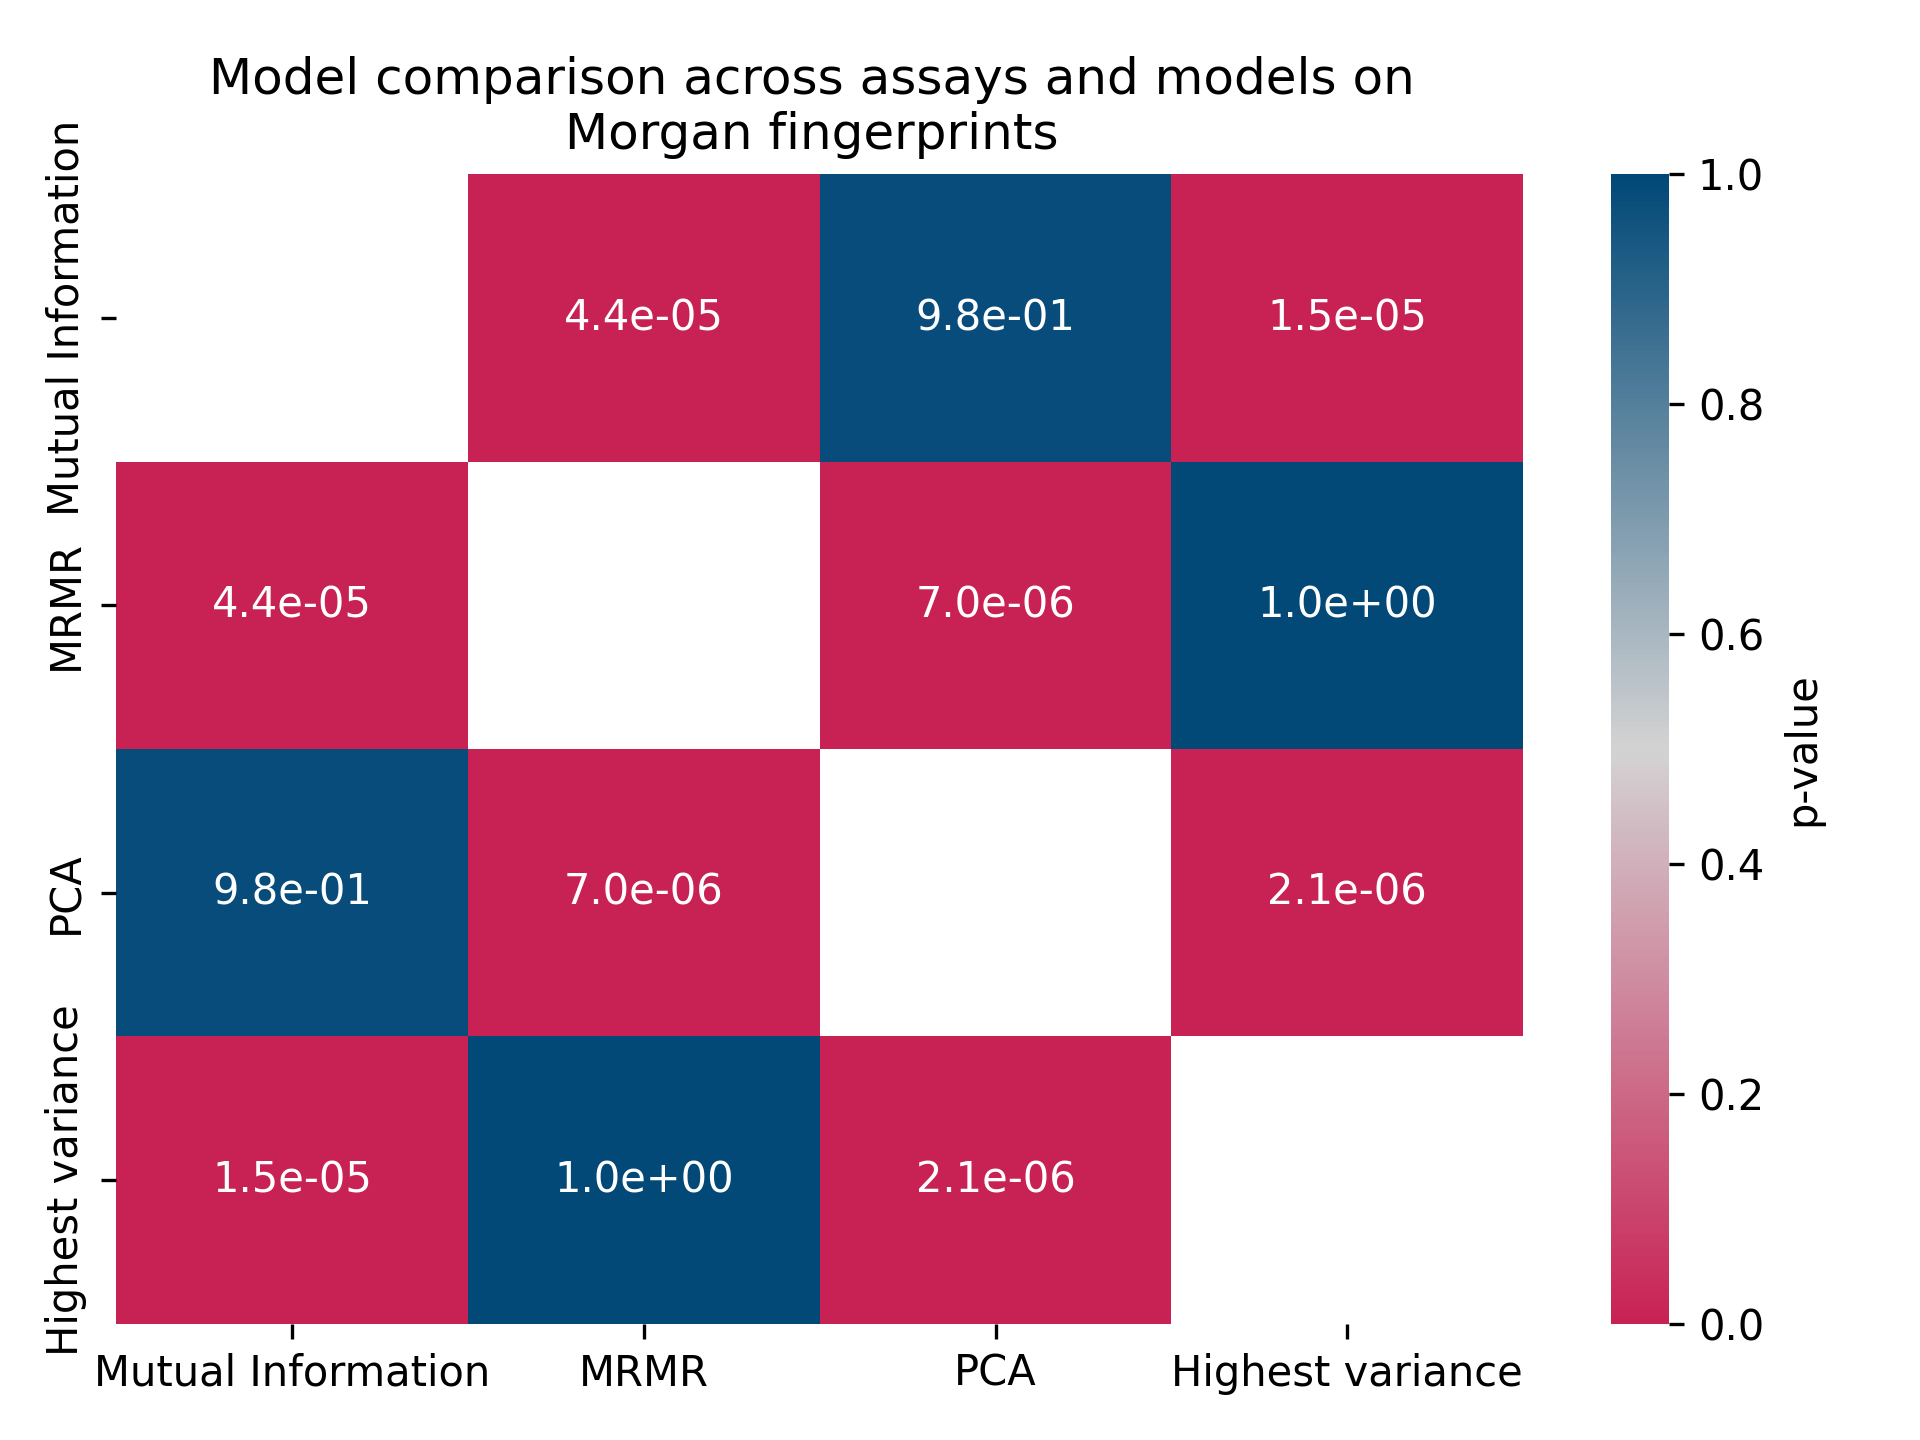
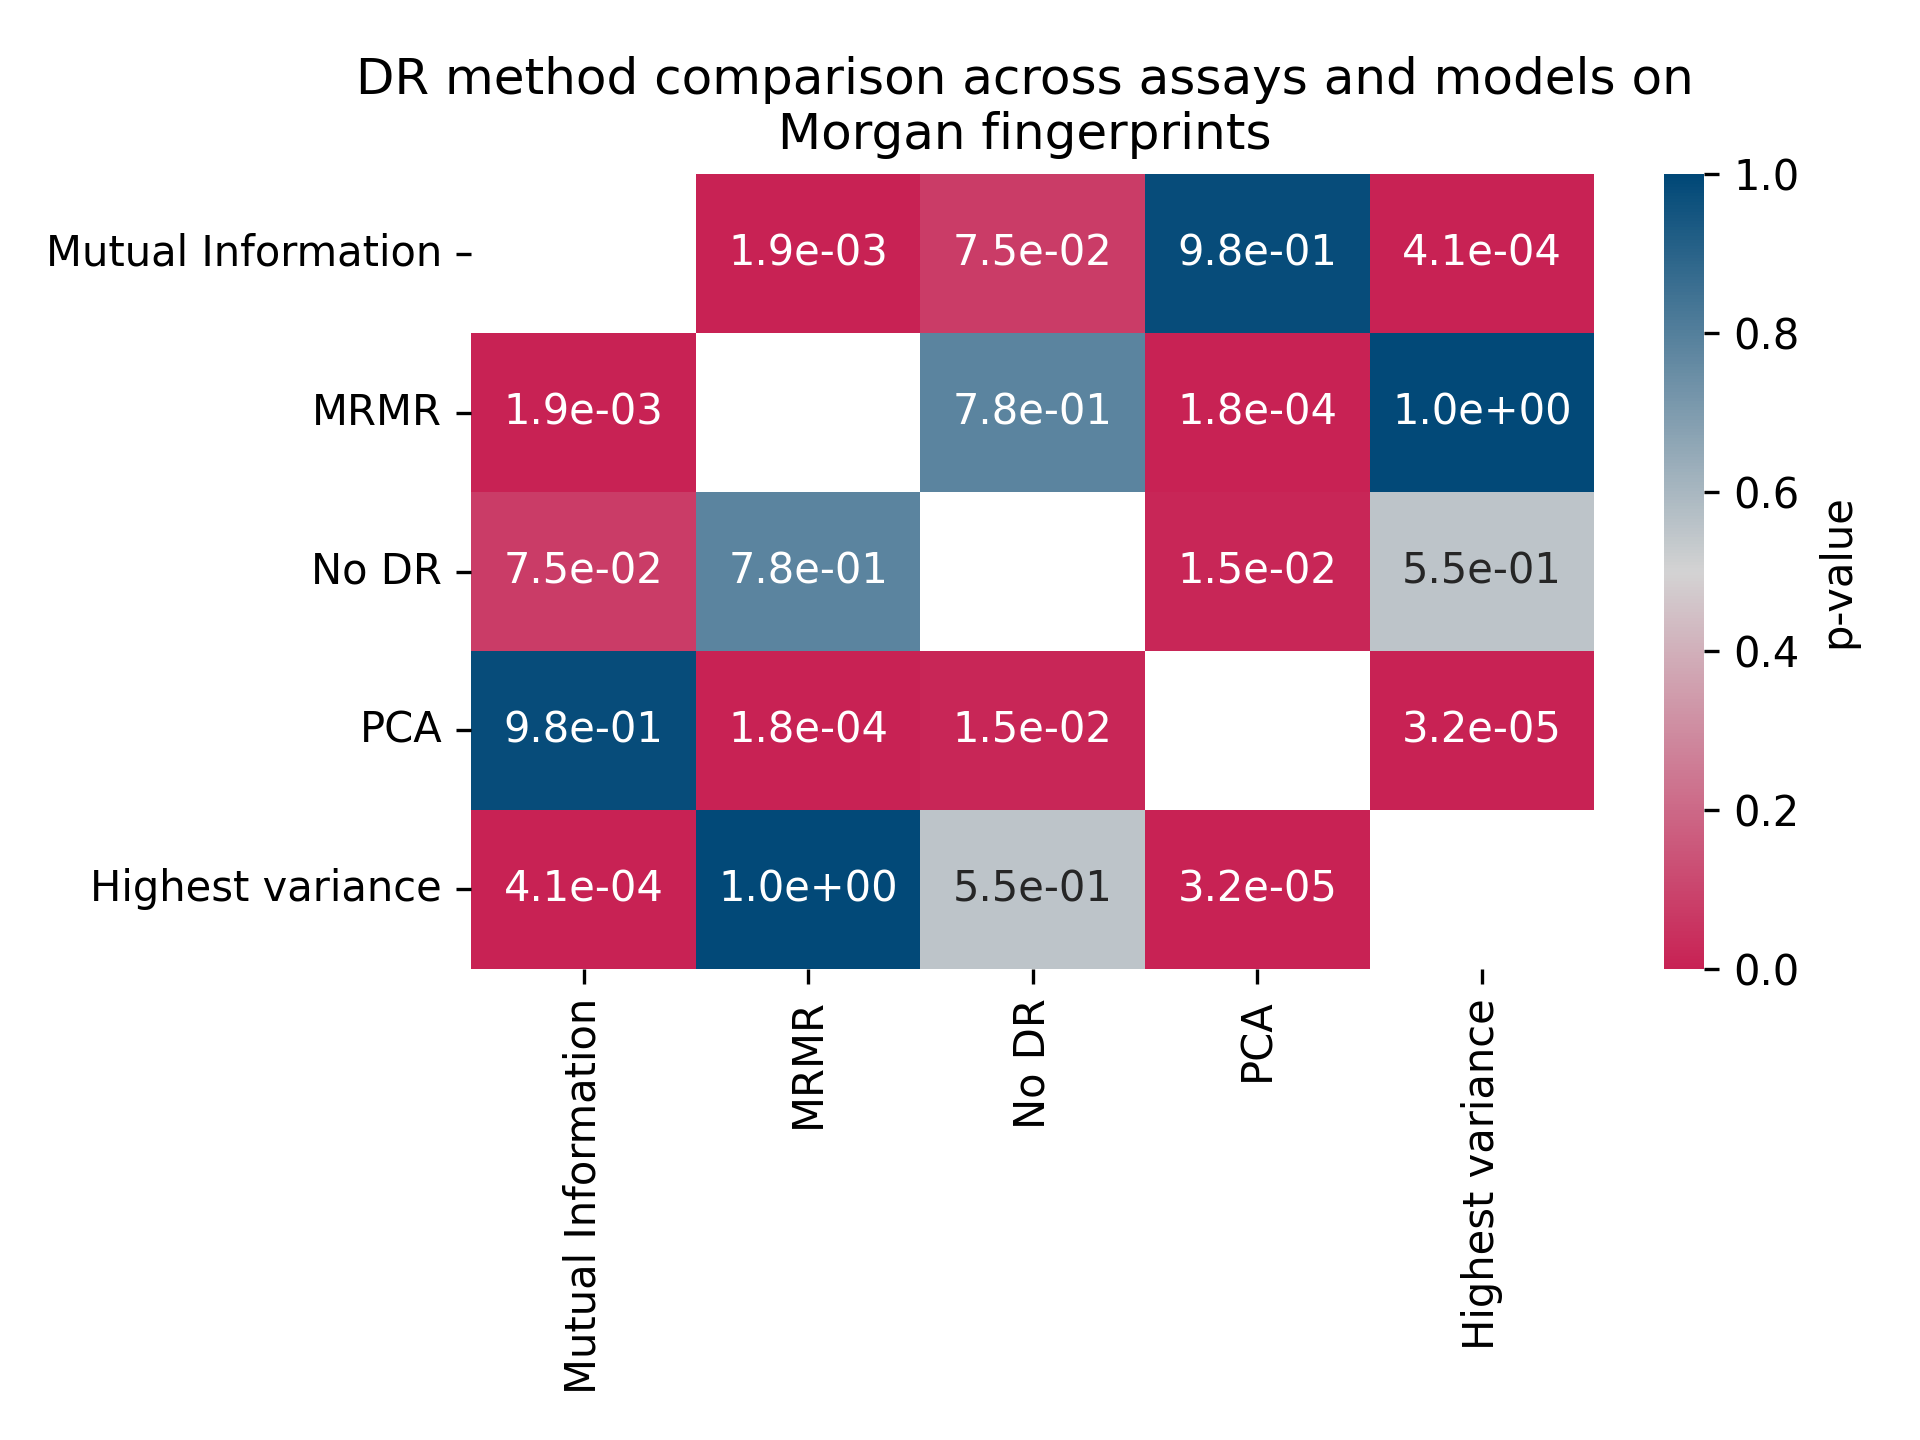
added no DR setting to evaluation script

diff --git a/evaluation/generate_DR_method_comparison_across_and_per_model.py b/evaluation/generate_DR_method_comparison_across_and_per_model.py
@@ -83,7 +83,7 @@ def cd_plot_for_nemenyi(final_results, dr_name_map, feature_type, feature_name_m
     )
     
 
-    plt.title(f"Model comparison across assays and models on \n{feature_name_map[feature_type]} ")
+    plt.title(f"DR method comparison across assays and models on \n{feature_name_map[feature_type]} ")
     plt.tight_layout()
     plt.savefig(f'{output_dir}/{feature_type}_nemenyi_pval_heatmap_comparing_dr_methods.png', dpi = 300, transparent = False)
 
@@ -111,14 +111,14 @@ def cd_plot_for_nemenyi(final_results, dr_name_map, feature_type, feature_name_m
 
 def pairwise_friedman_nemenyi(data):
     # Pivot the data to have one column per model and one row per subject
-    pivoted = data.pivot(index='fold', columns='model', values='mcc')
+    pivoted = data.pivot(index='fold', columns='dr_method', values='mcc')
     # Drop rows with missing values (if any)
     pivoted = pivoted.dropna()
 
     # Run Friedman test with correction by Iman and Davenport (1980)
     friedman_stat, p = friedmanchisquare(*pivoted.values.T)
     N = len(np.unique(data['fold']))
-    k = len(np.unique(data['model']))
+    k = len(np.unique(data['dr_method']))
     iman_davenport_correction = ((N - 1) * friedman_stat) / (N * (k - 1) - friedman_stat)
 
     # Compute p-value from F distribution
@@ -148,7 +148,7 @@ def pairwise_friedman_nemenyi(data):
 
 
 def parse_args():
-    parser = argparse.ArgumentParser(description="Evaluation of 5 fold CV results comparing models across all assays with one feature-DR combination")
+    parser = argparse.ArgumentParser(description="Evaluation of 5 fold CV results comparing DR methods across all assays with one feature-DR combination")
     parser.add_argument("-d", '--directory', help="input_directory", default='/home/lisa-marie-rolli/ToxCastBenchmark/model_outputs/')
     parser.add_argument("--feature_type", '-f', help="Feature type used", default='morgan')
     parser.add_argument("--output_dir", '-o', help="Output_directory", default='/home/lisa-marie-rolli/ToxCastBenchmark/plotting_results/')
@@ -163,8 +163,7 @@ def main(args):
     feature_type = args.feature_type
     out_dir = args.output_dir
     num_models = 5 if (not bool(args.tabpfn_missing)) else 4
-    for dr_method in ['MI', 'mrmr', 'pca', 'variance']:
-    #for dr_method in ['MI']:
+    for dr_method in ['MI', 'mrmr', 'pca', 'variance', 'none']:
         for subfolder in ['androgens', 'estrogens', 'glucocorticoids', 'progestagens', 'steroidal']:
             directory = f'{args.directory}/{subfolder}/'
 
